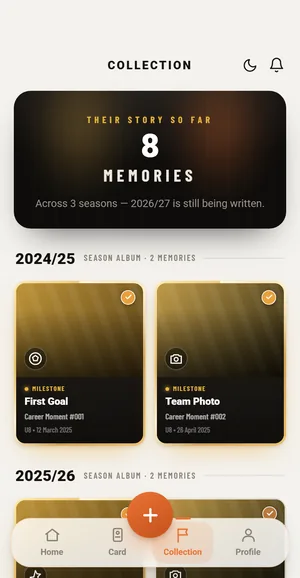
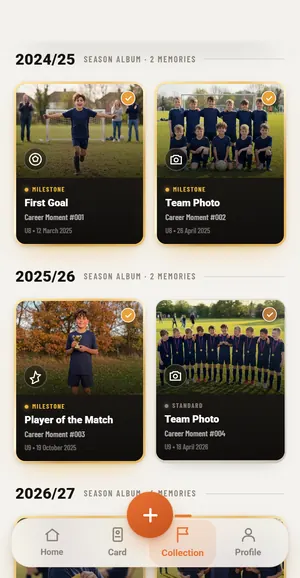
App demo + homepage phone: a photo on every memory
Every /os/demo Collection moment now has a photo of the fictional sample
player (AI-generated from the existing Riley reference only, no photo of a
real child), in a plain kit with no crest, sponsor, logo, maker's mark or
number. Seven new 960x720 WebPs (33-98 KB) replace the plain gold tiles.
The coach-verify demo queue uses them too, retiring the jn-* photos that
showed a real-looking kit sponsor.

The homepage hero phone is re-captured from the new Collection, scrolled
to the season albums so four photo memories show, with the status-bar
strip cleared under the notch (23-45 KB, was 15-26 KB). Alt text updated.

diff --git a/src/app/os/data.tsx b/src/app/os/data.tsx
@@ -134,9 +134,9 @@ export const CELEBRATE_CATS: CelebrateGroup[] = [
 ];
 
 export const VERIFY_QUEUE: VerifyItem[] = [
-  { id: 'v1', player: 'Riley Hart', playerId: 'ollie', moment: 'First Goal', thumb: `${assetPath}/jn-potm.png`, by: 'Sam Hart (Parent)', date: '12 March 2025', note: 'His first goal — arrived late in the box and finished low into the corner!', mediaKind: 'photo' },
-  { id: 'v2', player: 'Jack Bennett', playerId: 'jack', moment: 'Tournament Winner', thumb: `${assetPath}/jn-county.png`, by: 'Mark Bennett (Parent)', date: '7 June 2026', note: null, mediaKind: 'photo' },
-  { id: 'v3', player: 'Leo Marsh', playerId: 'leo', moment: 'Team Photo', thumb: `${assetPath}/jn-potm.png`, by: 'Sara Marsh (Parent)', date: '22 April 2026', note: 'Whole squad after the cup win.', mediaKind: 'photo' },
+  { id: 'v1', player: 'Riley Hart', playerId: 'ollie', moment: 'First Goal', thumb: `${assetPath}/demo-riley-first-goal.webp`, by: 'Sam Hart (Parent)', date: '12 March 2025', note: 'His first goal — arrived late in the box and finished low into the corner!', mediaKind: 'photo' },
+  { id: 'v2', player: 'Jack Bennett', playerId: 'jack', moment: 'Tournament Winner', thumb: `${assetPath}/demo-riley-tournament-winner.webp`, by: 'Mark Bennett (Parent)', date: '7 June 2026', note: null, mediaKind: 'photo' },
+  { id: 'v3', player: 'Leo Marsh', playerId: 'leo', moment: 'Team Photo', thumb: `${assetPath}/demo-riley-team-photo-u9.webp`, by: 'Sara Marsh (Parent)', date: '22 April 2026', note: 'Whole squad after the cup win.', mediaKind: 'photo' },
 ];
 
 export const COACH_ACTIVITY: CoachActivityItem[] = [
@@ -246,15 +246,17 @@ export const ADD_ACH: AddAchievement[] = [
 // PLAYER_PROFILE and the card), across three seasons from U8 to this
 // season's U10, matching DEVELOPMENT_SEASONS (24/25, 25/26, 26/27). `year`
 // is the season label, so Collection's chapters and Home's "This season"
-// agree. All names, clubs and organisations are fictional. Moments carry
-// plain textures rather than photos: the earlier match photos showed a
-// real-looking kit sponsor and phone number, so they are not used.
+// agree. All names, clubs and organisations are fictional. Every moment has
+// a photo of the same synthetic player (AI-generated from the sample-player
+// reference only, no photo of a real child), in a plain kit with no crest,
+// sponsor, logo, maker's mark or number. The earlier jn-* match photos showed
+// a real-looking kit sponsor and phone number, so they are not used.
 export const MOMENTS: Record<string, Moment> = {
   e1: {
     id: 'e1', year: '2024/25', ageGroup: 'U8', title: 'First Goal', date: '12 March 2025', occurredOn: '2025-03-12', ic: 'ball',
-    thumb: `${assetPath}/jn-potm.png`,
+    thumb: `${assetPath}/demo-riley-first-goal.webp`,
     trust: 'coach', source: 'Coach Danny', uploadedBy: 'Coach Danny', verifiedBy: 'Coach Danny',
-    note: 'Arrived late in the box and finished low into the corner — his first competitive goal.', media: false,
+    note: 'Arrived late in the box and finished low into the corner — his first competitive goal.', media: true,
     match: { competition: 'U8 League', opponent: 'Millbrook Rangers', score: '3 – 1', venue: 'Home' },
     rarity: { label: 'MILESTONE', color: '#E8B23A', tier: 'foil' },
     reward: {
@@ -269,9 +271,9 @@ export const MOMENTS: Record<string, Moment> = {
   },
   e2: {
     id: 'e2', year: '2024/25', ageGroup: 'U8', title: 'Team Photo', date: '26 April 2025', occurredOn: '2025-04-26', ic: 'camera',
-    thumb: `${assetPath}/jn-county.png`,
+    thumb: `${assetPath}/demo-riley-team-photo-u8.webp`,
     trust: 'coach', source: 'Westbrook Juniors', uploadedBy: 'Coach Danny', verifiedBy: 'Coach Danny',
-    note: 'End-of-season squad photo on the home pitch.', media: false,
+    note: 'End-of-season squad photo on the home pitch.', media: true,
     rarity: { label: 'MILESTONE', color: '#E8B23A', tier: 'foil' },
     reward: {
       rank: 'milestone', sub: 'Team Memory',
@@ -284,9 +286,9 @@ export const MOMENTS: Record<string, Moment> = {
   },
   e4: {
     id: 'e4', year: '2025/26', ageGroup: 'U9', title: 'Player of the Match', date: '19 October 2025', occurredOn: '2025-10-19', ic: 'star',
-    thumb: `${assetPath}/jn-potm.png`,
+    thumb: `${assetPath}/demo-riley-potm-u9.webp`,
     trust: 'coach', source: 'Coach Danny', uploadedBy: 'Coach Danny', verifiedBy: 'Coach Danny',
-    note: 'Led the press from the front — won the ball back high and kept the team moving all game.', media: false,
+    note: 'Led the press from the front — won the ball back high and kept the team moving all game.', media: true,
     match: { competition: 'U9 League', opponent: 'Millbrook Rangers', score: '2 – 2', venue: 'Away' },
     rarity: { label: 'MILESTONE', color: '#E8B23A', tier: 'foil' },
     reward: {
@@ -300,9 +302,9 @@ export const MOMENTS: Record<string, Moment> = {
   },
   e7: {
     id: 'e7', year: '2025/26', ageGroup: 'U9', title: 'Team Photo', date: '18 April 2026', occurredOn: '2026-04-18', ic: 'camera',
-    thumb: `${assetPath}/jn-county.png`,
+    thumb: `${assetPath}/demo-riley-team-photo-u9.webp`,
     trust: 'parent', source: 'Sam Hart', uploadedBy: 'Sam Hart', verifiedBy: 'Sam Hart',
-    note: 'End-of-season squad photo — his second year with the team.', media: false,
+    note: 'End-of-season squad photo — his second year with the team.', media: true,
     rarity: { label: 'STANDARD', color: '#8A8378', tier: 'standard' },
     reward: {
       rank: 'standard', sub: 'Team Memory',
@@ -314,9 +316,9 @@ export const MOMENTS: Record<string, Moment> = {
   },
   e5: {
     id: 'e5', year: '2026/27', ageGroup: 'U10', title: 'Captain', date: '6 September 2026', occurredOn: '2026-09-06', ic: 'captain',
-    thumb: `${assetPath}/jn-potm.png`,
+    thumb: `${assetPath}/demo-riley-captain.webp`,
     trust: 'club', source: 'Westbrook Juniors', uploadedBy: 'Coach Danny', verifiedBy: 'Westbrook Juniors',
-    note: 'Handed the armband before the first league game of the season.', media: false,
+    note: 'Handed the armband before the first league game of the season.', media: true,
     rarity: { label: 'MILESTONE', color: '#E8B23A', tier: 'foil' },
     reward: {
       rank: 'milestone', sub: 'Leadership Unlocked',
@@ -329,9 +331,9 @@ export const MOMENTS: Record<string, Moment> = {
   },
   e3: {
     id: 'e3', year: '2026/27', ageGroup: 'U10', title: 'Tournament Winner', date: '4 October 2026', occurredOn: '2026-10-04', ic: 'trophy',
-    thumb: `${assetPath}/jn-county.png`,
+    thumb: `${assetPath}/demo-riley-tournament-winner.webp`,
     trust: 'club', source: 'Westbrook Juniors', uploadedBy: 'Sam Hart', verifiedBy: 'Westbrook Juniors',
-    note: 'Lifted the U10 Champions Cup as captain after a 3-1 final.', media: false,
+    note: 'Lifted the U10 Champions Cup as captain after a 3-1 final.', media: true,
     match: { competition: 'U10 Champions Cup', opponent: 'Millbrook Rangers', score: '3 – 1', venue: 'Westbrook Park' },
     rarity: { label: 'MILESTONE', color: '#E8B23A', tier: 'foil' },
     reward: {
@@ -353,9 +355,9 @@ export const MOMENTS: Record<string, Moment> = {
   },
   e8: {
     id: 'e8', year: '2026/27', ageGroup: 'U10', title: 'Player of the Match', date: '11 October 2026', occurredOn: '2026-10-11', ic: 'star',
-    thumb: `${assetPath}/jn-potm.png`,
+    thumb: `${assetPath}/demo-riley-potm-u10.webp`,
     trust: 'coach', source: 'Coach Danny', uploadedBy: 'Coach Danny', verifiedBy: 'Coach Danny',
-    note: 'A second Player of the Match award — two assists from up front.', media: false,
+    note: 'A second Player of the Match award — two assists from up front.', media: true,
     match: { competition: 'U10 League', opponent: 'Millbrook Rangers', score: '4 – 2', venue: 'Home' },
     rarity: { label: 'RECOGNIZED', color: '#E97435', tier: 'metallic' },
     reward: {
@@ -368,8 +370,7 @@ export const MOMENTS: Record<string, Moment> = {
   },
   e6: {
     id: 'e6', year: '2026/27', ageGroup: 'U10', title: 'County Selection', date: '17 October 2026', occurredOn: '2026-10-17', ic: 'shield',
-    // The demo's one photo: the fictional sample player with his card, so
-    // Home's Latest Moment has a picture (no real kit, sponsor or crest).
+    // The fictional sample player with his card (no real kit, sponsor or crest).
     thumb: `${assetPath}/demo-riley-county.webp`,
     trust: 'league', source: 'Northfield County FA', uploadedBy: 'Sam Hart', verifiedBy: 'Northfield County FA',
     note: 'Selected for the county development squad.', media: true,

diff --git a/src/components/marketing/HeroStage.tsx b/src/components/marketing/HeroStage.tsx
@@ -9,10 +9,11 @@ import { useEffect, useRef, useState, type CSSProperties } from 'react';
  * hero), rebuilt light: Canada renders every card live from full print
  * templates (~30 MB); here each design is one pre-rendered WebP (40–80 KB).
  *
- * The phone shows the real app: a capture of the /os/demo Collection screen
- * (fictional sample player, demo banner hidden, 390 × 751 at 2x, the phone
- * screen's own ratio) as a 15–25 KB WebP, so no app code or backend request
- * ships with the homepage. The app has no per-design theme, so the phone
+ * The phone shows the real app: a capture of the /os/demo Collection screen,
+ * scrolled to the season albums so four photo memories show (fictional sample
+ * player, demo banner hidden, status-bar strip cleared under the notch,
+ * 390 × 751 at 2x, the phone screen's own ratio) as a 23–45 KB WebP, so no
+ * app code or backend request ships with the homepage. The app has no per-design theme, so the phone
  * keeps its colours when the card design changes.
  *
  * - Only the first design is in the server HTML. The others mount after the
@@ -143,7 +144,7 @@ export default function HeroStage() {
               sizes="(max-width: 760px) 34vw, 224px"
               width={480}
               height={924}
-              alt={`The Emblem app on a phone, showing ${PLAYER.name}'s collection: eight memories across three seasons, with coach-verified season albums.`}
+              alt={`The Emblem app on a phone, showing ${PLAYER.name}'s collection: season albums of photo memories, from his first goal and team photos to a Player of the Match award.`}
               loading="eager"
               fetchPriority="low"
               decoding="async"

diff --git a/src/app/os/public-demo-data.test.ts b/src/app/os/public-demo-data.test.ts
@@ -26,10 +26,14 @@ describe('public /os/demo data', () => {
   it("shows Home a latest moment with the fictional photo and a populated 'This season'", () => {
     const moments = PUBLIC_DEMO_OS_DATA.moments;
     expect(moments.length).toBeGreaterThan(0);
-    // The old match photos showed a real sponsor and crest; the only photo
-    // now is the fictional player with his card, on the newest moment.
+    // The old jn-* match photos showed a real sponsor and crest; every moment
+    // now has one photo of the fictional player, newest = him with his card.
     expect(moments[0].media.map((x) => x.url)).toEqual(['/assets/emblem-os/demo-riley-county.webp']);
-    expect(moments.slice(1).every((m) => m.media.length === 0)).toBe(true);
+    for (const m of moments) {
+      expect(m.media).toHaveLength(1);
+      expect(m.media[0].url).toMatch(/^\/assets\/emblem-os\/demo-riley-[a-z0-9-]+\.webp$/);
+    }
+    expect(new Set(moments.map((m) => m.media[0].url)).size).toBe(moments.length);
     const thisSeason = moments.filter((m) => m.seasonLabel === PLAYER_PROFILE.season);
     expect(thisSeason.length).toBeGreaterThan(0);
     expect(PUBLIC_DEMO_OS_DATA.currentSeasonStatus).toBe('active');
